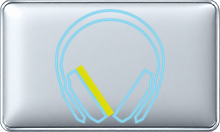
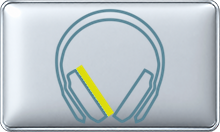
Repair ten more WHITE variants (batch 013)

Changed region(s): [[0.2455, 0.0606, 0.7636, 0.9394]]

diff --git a/reports/black-white-qc-2026-10-09/batch-013/checkpoint.md b/reports/black-white-qc-2026-10-09/batch-013/checkpoint.md
@@ -1,0 +1,12 @@
+# BLACK/WHITE QC batch 013
+
+- Branch: `warder-black-white-complete-qc-20261009`.
+- Remote branch baseline recorded from parent: `3a0ec22e4e785dff4060a722459a211fee780051`.
+- Local checkout HEAD observed at batch start: `719dd59ec5ef09a28503d21d3f21bad011de442a`.
+- Reviewed existing sheets `review-018.jpg` and `review-019.jpg`: review IDs 1701–1900, 200 variants. Sheets `review-020.jpg` and `review-021.jpg` were absent and therefore not included.
+- Repaired 10 high-confidence WHITE contrast failures in `10.0e/bfbs`: boot, fishing-pole, circular line-art, cube, headphones, guitar, cassette, building, airplane, and polar-bear icons. Exact picon paths, service references, source-mask/output pixel counts, and SHA256 values are listed in `repair-manifest.csv`.
+- Corrections darken only light-cyan stroke pixels using a hue-preserving scalar; yellow, pink, red and all other source pixels outside the cyan mask are untouched. Source alpha remains exact.
+- Rendering used `tools/rebuild_master_catalog.py` and the exact pinned WHITE MASTER. MASTER hash matched the binding value. Before-edit output for every target matched the pinned renderer byte-for-pixel.
+- Visual comparison: `batch-013-before-after.jpg` (left = transparent source on neutral gray; center = current output; right = repaired output). Reviewed all ten rows; icon contours remain intact and all visible accents remain preserved.
+- Final PNG validation passed for all 10 outputs: valid PNG, RGBA, 220×132. Transparent sources and cumulative audit manifest were not changed.
+- Completed through review ID 1900. Next available sheet: `review-022.jpg` / review ID 1901. No commit or push performed.
